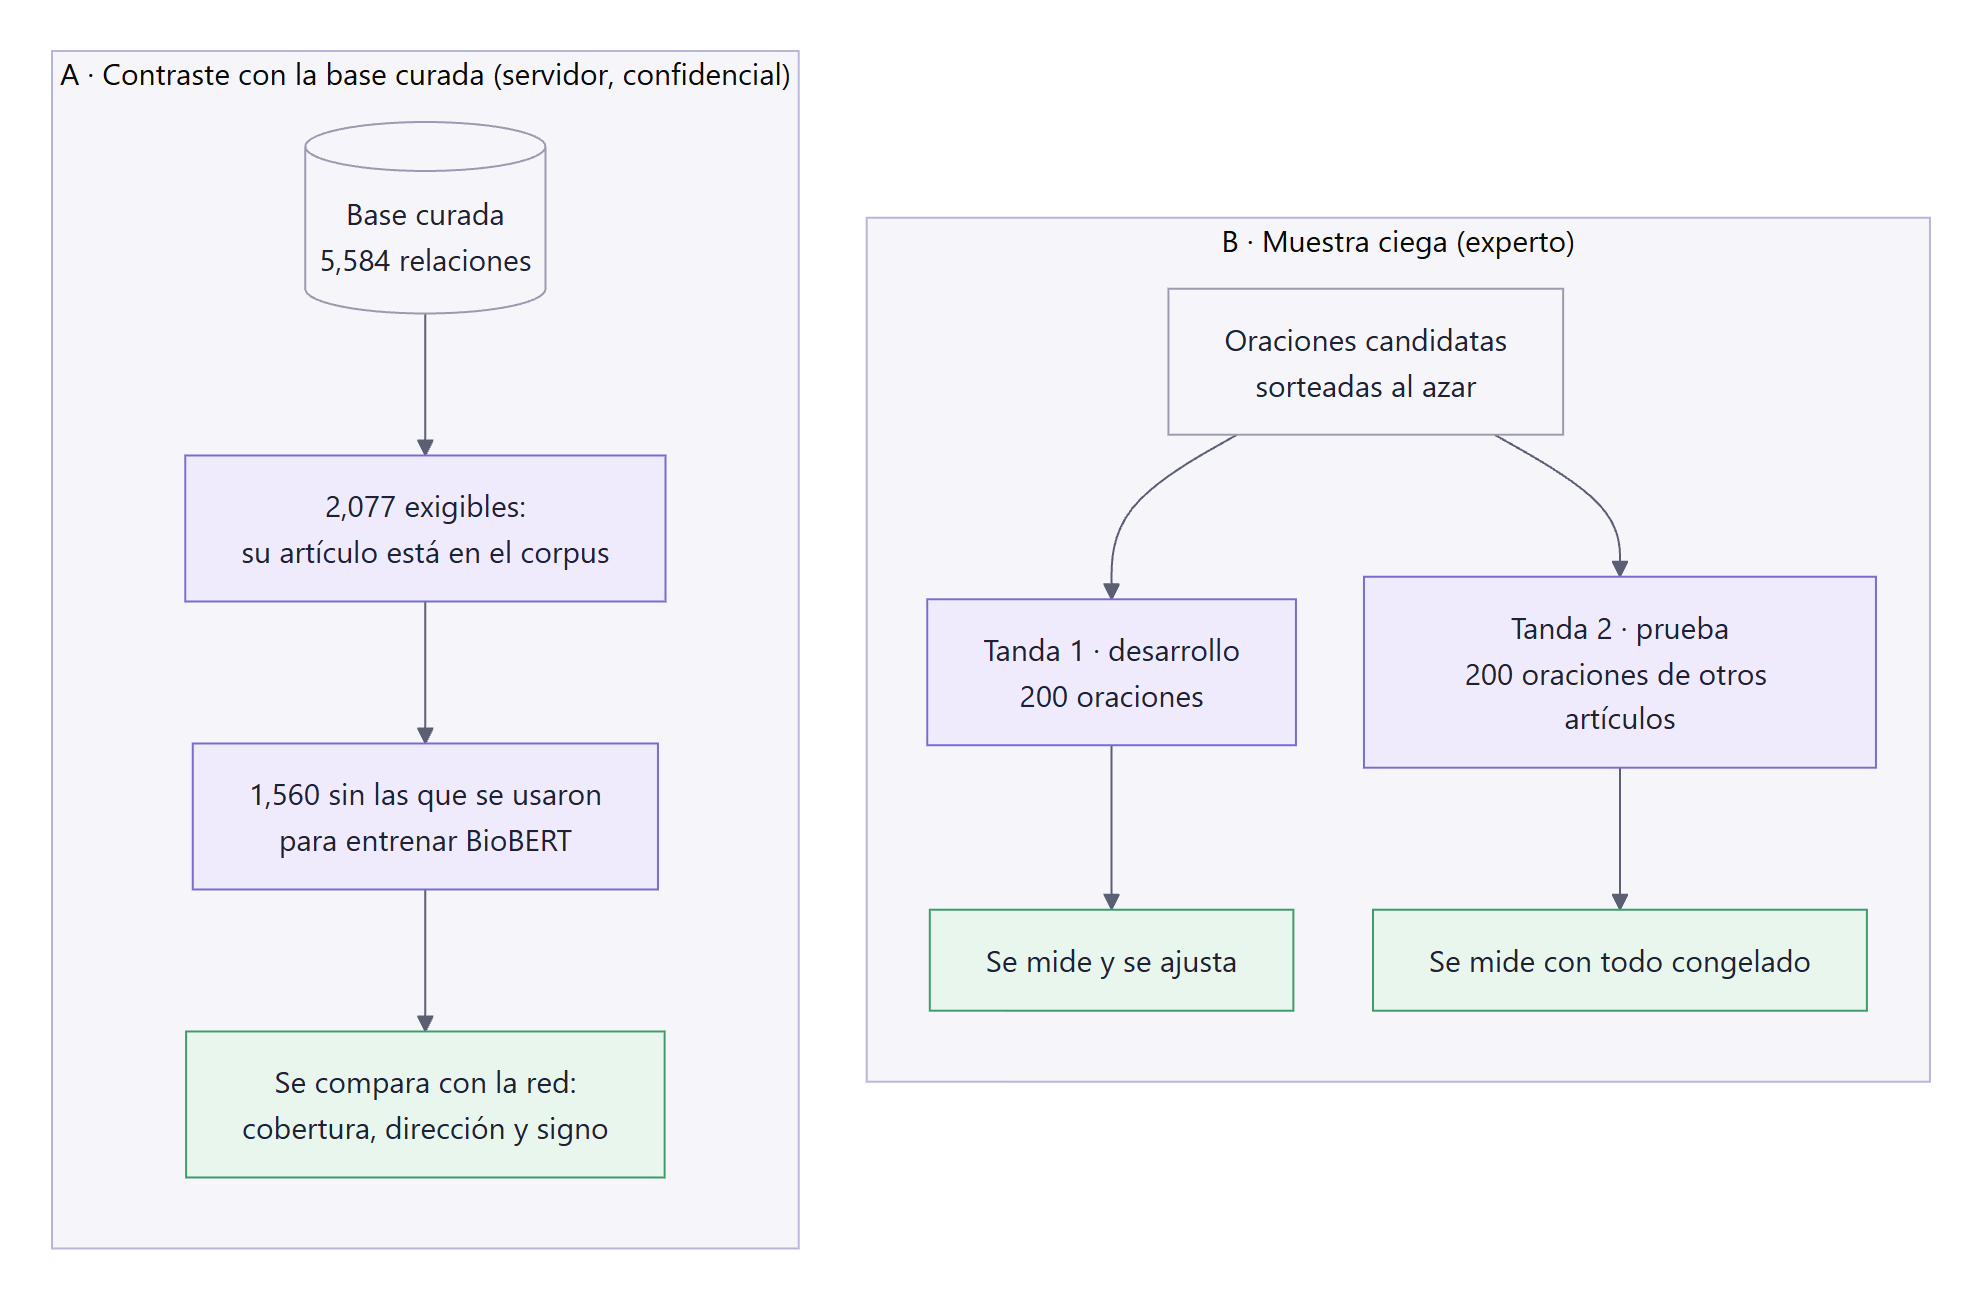
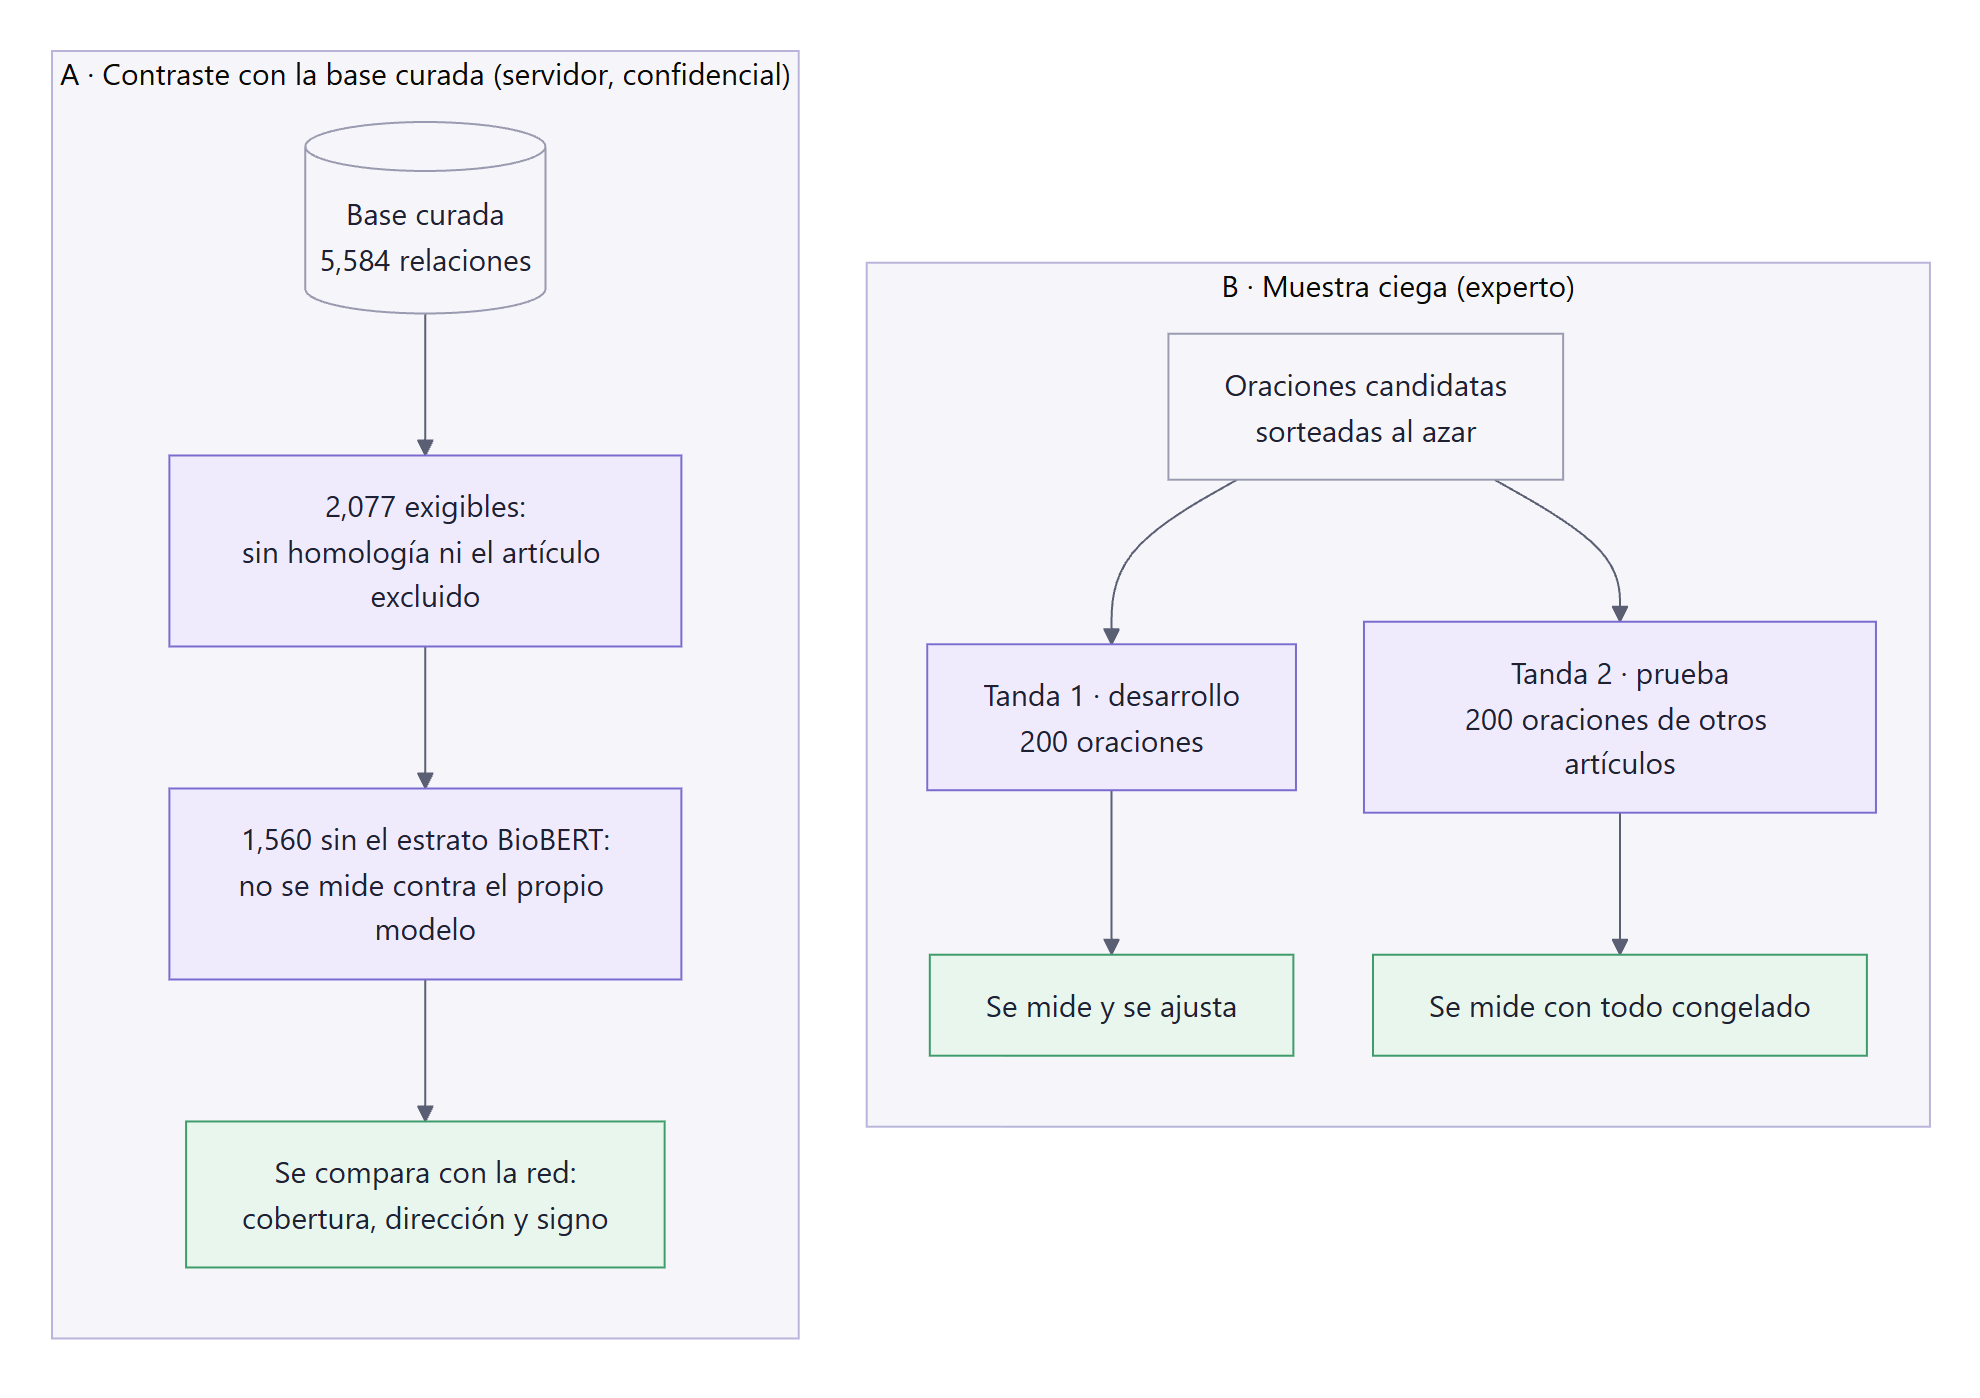
docs: memoria v0.3, la base curada y la curación experta
- 5.1 nueva: la base curada (estructura, Origen, homología, locus) y la
  construcción del denominador exigible, solo con conteos.
- 5.4 nueva: quién valida, cómo se preparó (sin calibración), condiciones,
  tanda 1 y 2, control de calidad y limitaciones. El nombre y el CV van solo
  en el Word, desde salidas/reporte/privado/ (fuera de git).
- Corrige dos definiciones, también en la portada del tablero: exigible no es
  «su artículo está en el corpus», y el estrato que se excluye es el de origen
  BioBERT (propuestas del modelo del asesor), no «las que entrenaron BioBERT».

diff --git a/web/index.html b/web/index.html
@@ -775,7 +775,7 @@ mark.e2::after { content: "2"; }
     </div>
     <div class="tarjeta">
       <h3 class="pr-h3">Contra la base curada</h3>
-      <p class="sub">De las 1,560 relaciones de la base cuyo artículo está en el corpus (sin las que se usaron para entrenar BioBERT):</p>
+      <p class="sub">De las 1,560 relaciones exigibles de la base (sin las de homología y sin las que propuso el BioBERT del asesor, para no medir al modelo contra sí mismo):</p>
       <div class="pr-barras">
         <div class="pr-barra"><span class="pr-nombre">Alcanzable con las oraciones</span><span class="pr-pista"><span class="pr-relleno pr-tenue" style="width:46.2%"></span></span><span class="pr-valor">46.2&#8239;%</span></div>
         <div class="pr-barra"><span class="pr-nombre">La red las encuentra</span><span class="pr-pista"><span class="pr-relleno" style="width:43.2%"></span></span><span class="pr-valor">43.2&#8239;%</span></div>

diff --git a/docs/reporte/construir_docx.py b/docs/reporte/construir_docx.py
@@ -18,7 +18,10 @@ Entiende el Markdown que usa reporte.md y nada más:
 - **negritas**, *cursivas* y `código` dentro del texto;
 - una figura es un comentario `<!-- figura: nombre | pie -->` seguido de su
   bloque mermaid. GitHub dibuja el bloque; aquí se inserta
-  `figuras/nombre.png`, que se exporta del mismo bloque.
+  `figuras/nombre.png`, que se exporta del mismo bloque;
+- `<!-- privado: clave -->` inserta `salidas/reporte/privado/clave.md`, que
+  está fuera de git: lo que no puede ir al repositorio público, como el nombre
+  y el CV del anotador. Si el archivo no existe, no se inserta nada.
 """
 
 import argparse
@@ -35,6 +38,7 @@ from docx.shared import Cm, Pt, RGBColor
 
 AQUI = Path(__file__).resolve().parent
 RAIZ = AQUI.parent.parent
+PRIVADO = RAIZ / "salidas" / "reporte" / "privado"
 
 MORADO = RGBColor(0x4B, 0x3F, 0xA6)
 GRIS = RGBColor(0x5B, 0x5F, 0x74)
@@ -320,7 +324,19 @@ def construir(fuente, salida):
         l = lineas[i]
         s = l.strip()
         fig = re.match(r"<!-- figura: (\w+) \| (.*?) -->", s)
-        if fig:
+        priv = re.match(r"<!-- privado: (\w+) -->", s)
+        if priv:
+            # Texto que no va al repositorio público (p. ej. el nombre y el CV
+            # del anotador): vive en salidas/reporte/privado/<clave>.md, que
+            # está fuera de git. Si no existe, no se inserta nada.
+            soltar_parrafo(); soltar_lista()
+            ruta = PRIVADO / (priv.group(1) + ".md")
+            if ruta.exists():
+                for bloque in ruta.read_text(encoding="utf-8").split("\n\n"):
+                    if bloque.strip():
+                        texto_con_formato(doc.add_paragraph(),
+                                          " ".join(bloque.split()))
+        elif fig:
             soltar_parrafo(); soltar_lista()
             i += 1
             if i < len(lineas) and lineas[i].strip().startswith("```mermaid"):

diff --git a/docs/reporte/reporte.md b/docs/reporte/reporte.md
@@ -244,8 +244,8 @@ flowchart TB
   end
   subgraph A["A · Contraste con la base curada (servidor, confidencial)"]
     direction TB
-    BASE[("Base curada<br/>5,584 relaciones")]:::fuente --> EXI["2,077 exigibles:<br/>su artículo está en el corpus"]:::paso
-    EXI --> EST["1,560 sin las que se usaron<br/>para entrenar BioBERT"]:::paso
+    BASE[("Base curada<br/>5,584 relaciones")]:::fuente --> EXI["2,077 exigibles:<br/>sin homología ni el artículo excluido"]:::paso
+    EXI --> EST["1,560 sin el estrato BioBERT:<br/>no se mide contra el propio modelo"]:::paso
     EST --> M1["Se compara con la red:<br/>cobertura, dirección y signo"]:::ev
   end
   classDef fuente fill:#F6F6FA,stroke:#9A9AB0,color:#1F2133
@@ -254,12 +254,43 @@ flowchart TB
   classDef expl fill:#FFF6E5,stroke:#C8962E,stroke-dasharray:5 3,color:#1F2133
 ```
 
-### 5.1 Contraste con la base curada
+### 5.1 La base curada del laboratorio
 
-- **Exigible:** fila de la base cuyo artículo citado está en el corpus (2,077
-  con la regla versionada).
-- **Estratos:** se separan las filas que se usaron para entrenar BioBERT. La
-  cifra principal usa las 1,560 restantes.
+- **Qué es:** relaciones regulatorias de PAO1 curadas a mano en el laboratorio
+  del asesor. *Por completar con el asesor: quién la curó, en qué periodo y
+  con qué criterios.*
+- **Estructura:** 5,584 filas, 8 columnas: `Source`, `Target`, `Interaction`,
+  `Reference`, `Source_Locus_id`, `Target_Locus_id`, `Origen`,
+  `Contributions`. Vive solo en el servidor; aquí van conteos.
+- **`Interaction`** codifica solo el signo: `+` 4,060 · `-` 598 · `?` 909 ·
+  `d` 14 · ilegible 3.
+- **`Origen`** dice en qué versión de la base está la fila: Histórica 4,824 ·
+  BioBERT 544 · Ambos 216. Las de BioBERT las propuso el modelo del asesor,
+  entrenado con la misma receta que el clasificador de la red.
+- **`Reference`:** 309 PMIDs y 1 DOI. 2,850 filas (51 %) llevan la etiqueta
+  de homología: la relación se infirió (p. ej., desde la cepa PA14) y el
+  artículo citado no la reporta.
+- **Locus:** 5,578 filas con los dos locus válidos; 3,006 locus distintos.
+
+**Denominador exigible** (regla versionada en `grn_verificacion/contraste.py`):
+
+| Paso | Filas |
+|---|---|
+| Filas con los dos locus válidos | 5,578 |
+| − homología (el artículo citado no reporta la relación) | 2,850 |
+| − filas que citan solo el artículo excluido (PMID B: sin XML; el bronce no lee PDF) | 651 |
+| **Exigibles** | **2,077** |
+| de ellas, con su artículo en el corpus | 1,562 (859 con XML, 703 solo resumen) |
+| de ellas, sin el estrato BioBERT (cifra principal) | 1,560 (Histórica 1,359 + Ambos 201) |
+
+### 5.2 Contraste con la base curada
+
+- **Exigible:** ver la tabla anterior. Una fila que no es exigible no se le
+  puede pedir a la red.
+- **Estratos:** el recall se reporta por estrato de `Origen`. La cifra
+  principal excluye las 517 exigibles de origen BioBERT: medir la red contra
+  propuestas de un modelo con la misma receta es circular y sale alto por
+  construcción.
 - **Métricas:** recall dirigido, recall en cualquier dirección, orientación,
   signo (con y sin abstención), techo y candidatas nuevas.
 - **Techo (regla a):** fracción de filas cuyos dos locus aparecen juntos en
@@ -268,7 +299,7 @@ flowchart TB
 - **Dónde:** solo en el servidor (`grn_verificacion.cli contraste`); a la
   laptop baja `CONTRASTE.md` con conteos.
 
-### 5.2 Muestra ciega
+### 5.3 Muestra ciega
 
 - **Unidad:** una oración candidata con su par, sin decir cuál es el regulador.
 - **Sorteo:** `cli muestra` con semilla fija. Tanda 1: 200 ítems (198
@@ -283,7 +314,43 @@ flowchart TB
   sobre los propuestos), retención de las verdaderas y diferencia pareada
   red − bronce con IC 95 %. En la tanda 2 también se mide el tiempo por ítem.
 
-### 5.3 Controles contra sesgo
+### 5.4 Curación experta para validar
+
+La precisión depende del juicio de un anotador. Esta sección dice quién es,
+cómo se preparó y qué tan confiable es su juicio.
+
+- **Anotador principal:** licenciado en Biología (UNAM), con formación en
+  genética y citogenética. No es especialista en regulación transcripcional
+  bacteriana.
+
+<!-- privado: anotador -->
+
+- **Tarea:** juzgar lo que afirma la oración, con las etiquetas de la rúbrica.
+  La rúbrica pide no usar conocimiento externo al texto, lo que reduce la
+  dependencia de la especialidad.
+- **Condiciones:** ciego a la hipótesis y a las predicciones; no sabe que su
+  juicio se compara con el sistema; remunerado por hora.
+- **Preparación:** la rúbrica (`docs/rubrica-anotacion.md`) y la guía
+  (`docs/guia-anotacion.md`). **No hubo sesión de calibración** antes de
+  ninguna tanda. Después de la tanda 1, la guía incorporó las fallas
+  observadas: negación, mutantes que invierten el signo y relaciones de otro
+  organismo.
+- **Tanda 1:** 198/200 ítems, anotados en CSV y sin tiempo por ítem. Solo se
+  normalizaron códigos (dirección vacía con `no` o `dudoso` → `ninguna`;
+  signo `0` → `?`). Avisos de consistencia: 5 ítems `si` con `negada = si` y
+  16 `si` o `dudoso` sin signo o sin tipo.
+- **Tanda 2:** página HTML autocontenida (`revision_portatil.py`). Valida las
+  combinaciones de la rúbrica antes de guardar, guarda en el navegador, mide el
+  tiempo por tramo (los tramos de más de 15 min no se suman) y exporta CSV y
+  respaldo.
+- **Control de calidad:** una segunda anotadora revisa 50 ítems de la tanda 1
+  (sorteados con semilla 20261024) para medir el acuerdo entre personas (κ por
+  campo, exploratorio). Pendiente de entrega.
+- **Limitaciones:** un solo anotador principal, sin calibración y sin
+  especialidad en regulación bacteriana. El κ entre anotadores es la medida de
+  su confiabilidad.
+
+### 5.5 Controles contra sesgo
 
 | Riesgo | Control |
 |---|---|
@@ -325,7 +392,7 @@ flowchart TB
 
 ### 6.2 Contraste con la base curada
 
-Sobre las 1,560 filas exigibles sin el estrato de entrenamiento:
+Sobre las 1,560 filas exigibles sin el estrato BioBERT:
 
 | Medida | Resultado |
 |---|---|
@@ -469,8 +536,9 @@ Ouroboros: `docs/ouroboros-v0.md`.
 |---|---|
 | Arista | relación regulador → blanco en la red, con sus oraciones y artículos |
 | Bronce | oraciones candidatas del paso 1; no verificadas |
-| Exigible | fila de la base curada cuyo artículo está en el corpus |
+| Exigible | fila de la base con sus dos locus válidos, que no viene de homología y no cita solo el artículo excluido |
 | Techo | fracción de exigibles con sus dos locus en alguna oración candidata |
+| Estrato BioBERT | filas de la base que propuso el modelo del asesor; fuera de la cifra principal |
 | Huella | SHA-256 de un archivo o de un conjunto de entradas |
 | Idempotente | correrlo dos veces no repite trabajo ni cambia el resultado |
 | κ de Cohen | acuerdo entre dos anotadores corregido por azar |

diff --git a/docs/reporte/README.md b/docs/reporte/README.md
@@ -45,6 +45,13 @@ flowchart TB
    doble de tamaño.
 3. Se vuelve a correr `construir_docx.py`.
 
+## Texto privado
+
+Lo que va en el Word para el asesor pero no en el repositorio público (el
+nombre y el CV del anotador) vive en `salidas/reporte/privado/<clave>.md`, fuera
+de git. En `reporte.md` se marca con `<!-- privado: clave -->`; sin el archivo,
+el Word sale igual, sin ese texto.
+
 ## Lo que nunca va en el reporte
 
 El repositorio es público. Del reporte quedan fuera las filas de la base
